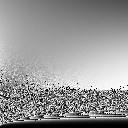
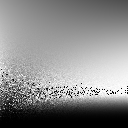
完成Assignment4

Changed region(s): [[0.0, 0.4688, 1.0, 1.0], [0.5312, 0.5938, 0.5625, 0.625]]

diff --git a/Assignment4/src/engine.js b/Assignment4/src/engine.js
@@ -97,7 +97,7 @@ async function GAMES202Main() {
 
 	let metallic = 1.0;
 	let Sphere0Transform = setTransform(180, 60, 0, 180, 180, 180, 0, Math.PI, 0);
-	//loadGLTF(renderer, 'assets/ball/', 'ball', 'KullaContyMaterial', Sphere0Transform, metallic, 0.15);
+	loadGLTF(renderer, 'assets/ball/', 'ball', 'KullaContyMaterial', Sphere0Transform, metallic, 0.15);
 	let Sphere1Transform = setTransform(100, 60, 0, 180, 180, 180, 0, Math.PI, 0);
 	loadGLTF(renderer, 'assets/ball/', 'ball', 'KullaContyMaterial', Sphere1Transform, metallic, 0.35);
 	let Sphere2Transform = setTransform(20, 60, 0, 180, 180, 180, 0, Math.PI, 0);
@@ -108,7 +108,7 @@ async function GAMES202Main() {
 	loadGLTF(renderer, 'assets/ball/', 'ball', 'KullaContyMaterial', Sphere4Transform, metallic, 0.95);
 
 	let Sphere5Transform = setTransform(180, -60, 0, 180, 180, 180, 0, Math.PI, 0);
-	//loadGLTF(renderer, 'assets/ball/', 'ball', 'PBRMaterial', Sphere5Transform, metallic, 0.15);
+	loadGLTF(renderer, 'assets/ball/', 'ball', 'PBRMaterial', Sphere5Transform, metallic, 0.15);
 	let Sphere6Transform = setTransform(100, -60, 0, 180, 180, 180, 0, Math.PI, 0);
 	loadGLTF(renderer, 'assets/ball/', 'ball', 'PBRMaterial', Sphere6Transform, metallic, 0.35);
 	let Sphere7Transform = setTransform(20, -60, 0, 180, 180, 180, 0, Math.PI, 0);

diff --git a/Assignment4/src/materials/KullaContyMaterial.js b/Assignment4/src/materials/KullaContyMaterial.js
@@ -6,7 +6,7 @@ class KullaContyMaterial extends Material {
             'uMetallic': { type: '1f', value: metallic },
             'uRoughness': { type: '1f', value: roughness },
             'uBRDFLut': { type: 'texture', value: BRDFLut },
-            'uEavgFLut': { type: 'texture', value: EavgLut },
+            'uEavgLut': { type: 'texture', value: EavgLut },
             
             'uCubeTexture': { type: 'CubeTexture', value: null },
             'uLightRadiance': { type: '3fv', value: light.lightRadiance },

diff --git a/Assignment4/lut-gen/Emu_MC.cpp b/Assignment4/lut-gen/Emu_MC.cpp
@@ -109,8 +109,10 @@ int main() {
             float NdotV = step * (static_cast<float>(j) + 0.5f);
             Vec3f V = Vec3f(std::sqrt(1.f - NdotV * NdotV), 0.f, NdotV);
 
+            // V is the view direction
             Vec3f irr = IntegrateBRDF(V, roughness, NdotV);
 
+            // 分别写入三个通道
             data[(i * resolution + j) * 3 + 0] = uint8_t(irr.x * 255.0);
             data[(i * resolution + j) * 3 + 1] = uint8_t(irr.y * 255.0);
             data[(i * resolution + j) * 3 + 2] = uint8_t(irr.z * 255.0);
